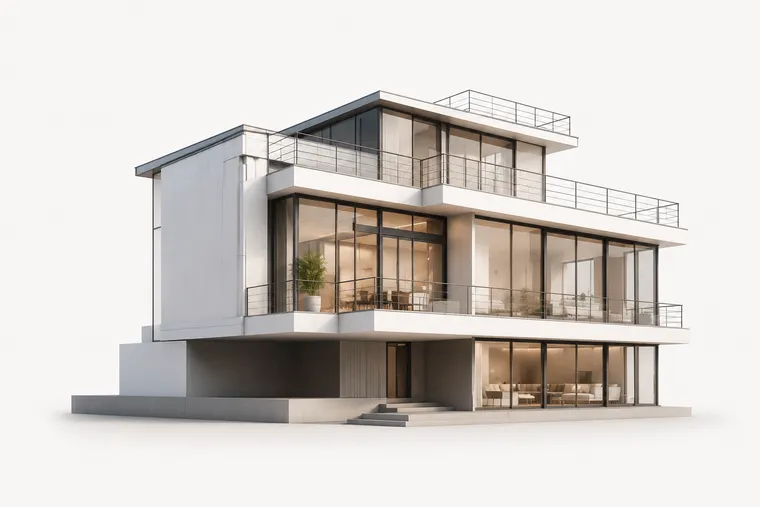
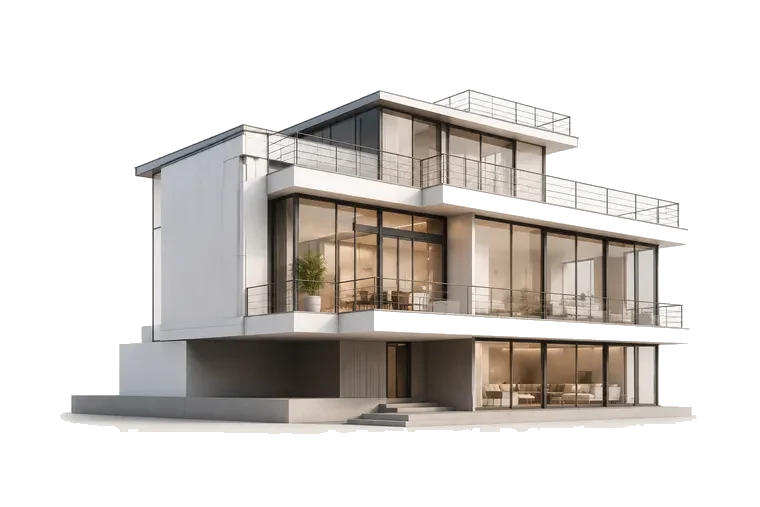
fix(process): 3D 집 흰 배경·바닥 그림자 제거(투명화) + blend 제거
house.webp 가장자리 흰 영역을 flood-fill로 투명 처리(집 내부 흰색 보존,
배경 60% 제거). 흰 배경이 없어져 multiply/screen 불필요 → 제거하고
라이트=grayscale 흐림, 다크=invert로 외곽선만 은은한 와이어프레임처럼.

Changed region(s): [[0.0908, 0.7988, 0.9382, 0.8876], [0.0605, 0.7988, 0.0908, 0.8284]]

diff --git a/src/styles.css b/src/styles.css
@@ -2933,9 +2933,8 @@ textarea {
   left: clamp(-24px, -1vw, -6px);
   bottom: 0;
   width: min(96%, 480px);
-  opacity: 0.14;
-  mix-blend-mode: multiply;
-  filter: grayscale(1) contrast(0.9) blur(0.6px);
+  opacity: 0.2;
+  filter: grayscale(1) contrast(1.05) blur(0.5px);
   pointer-events: none;
   z-index: 0;
 }
@@ -13989,11 +13988,10 @@ main.landing-page .blog-card-grid.landing-blog-grid .blog-card-featured h3 {
   }
   .process__detail-point-arrow { color: #9aa6bd; }
 
-  /* 3D 집: multiply는 라이트 전용. 다크에선 invert+screen으로 밝은 라인만 남긴다 */
+  /* 3D 집(투명 배경): 다크에선 invert로 어두운 창틀·외곽선을 밝은 라인으로 */
   .process__blueprint {
-    mix-blend-mode: screen;
-    filter: invert(1) brightness(1.3) contrast(1) blur(0.6px);
-    opacity: 0.11;
+    filter: invert(1) grayscale(1) brightness(1.25) blur(0.5px);
+    opacity: 0.18;
   }
 
   /* 가격표(서비스/가격 페이지·프리렌더 스냅샷 공통): 헤더 #f1f5f9, 행 hover/선택 크림·노랑 하드코딩 */